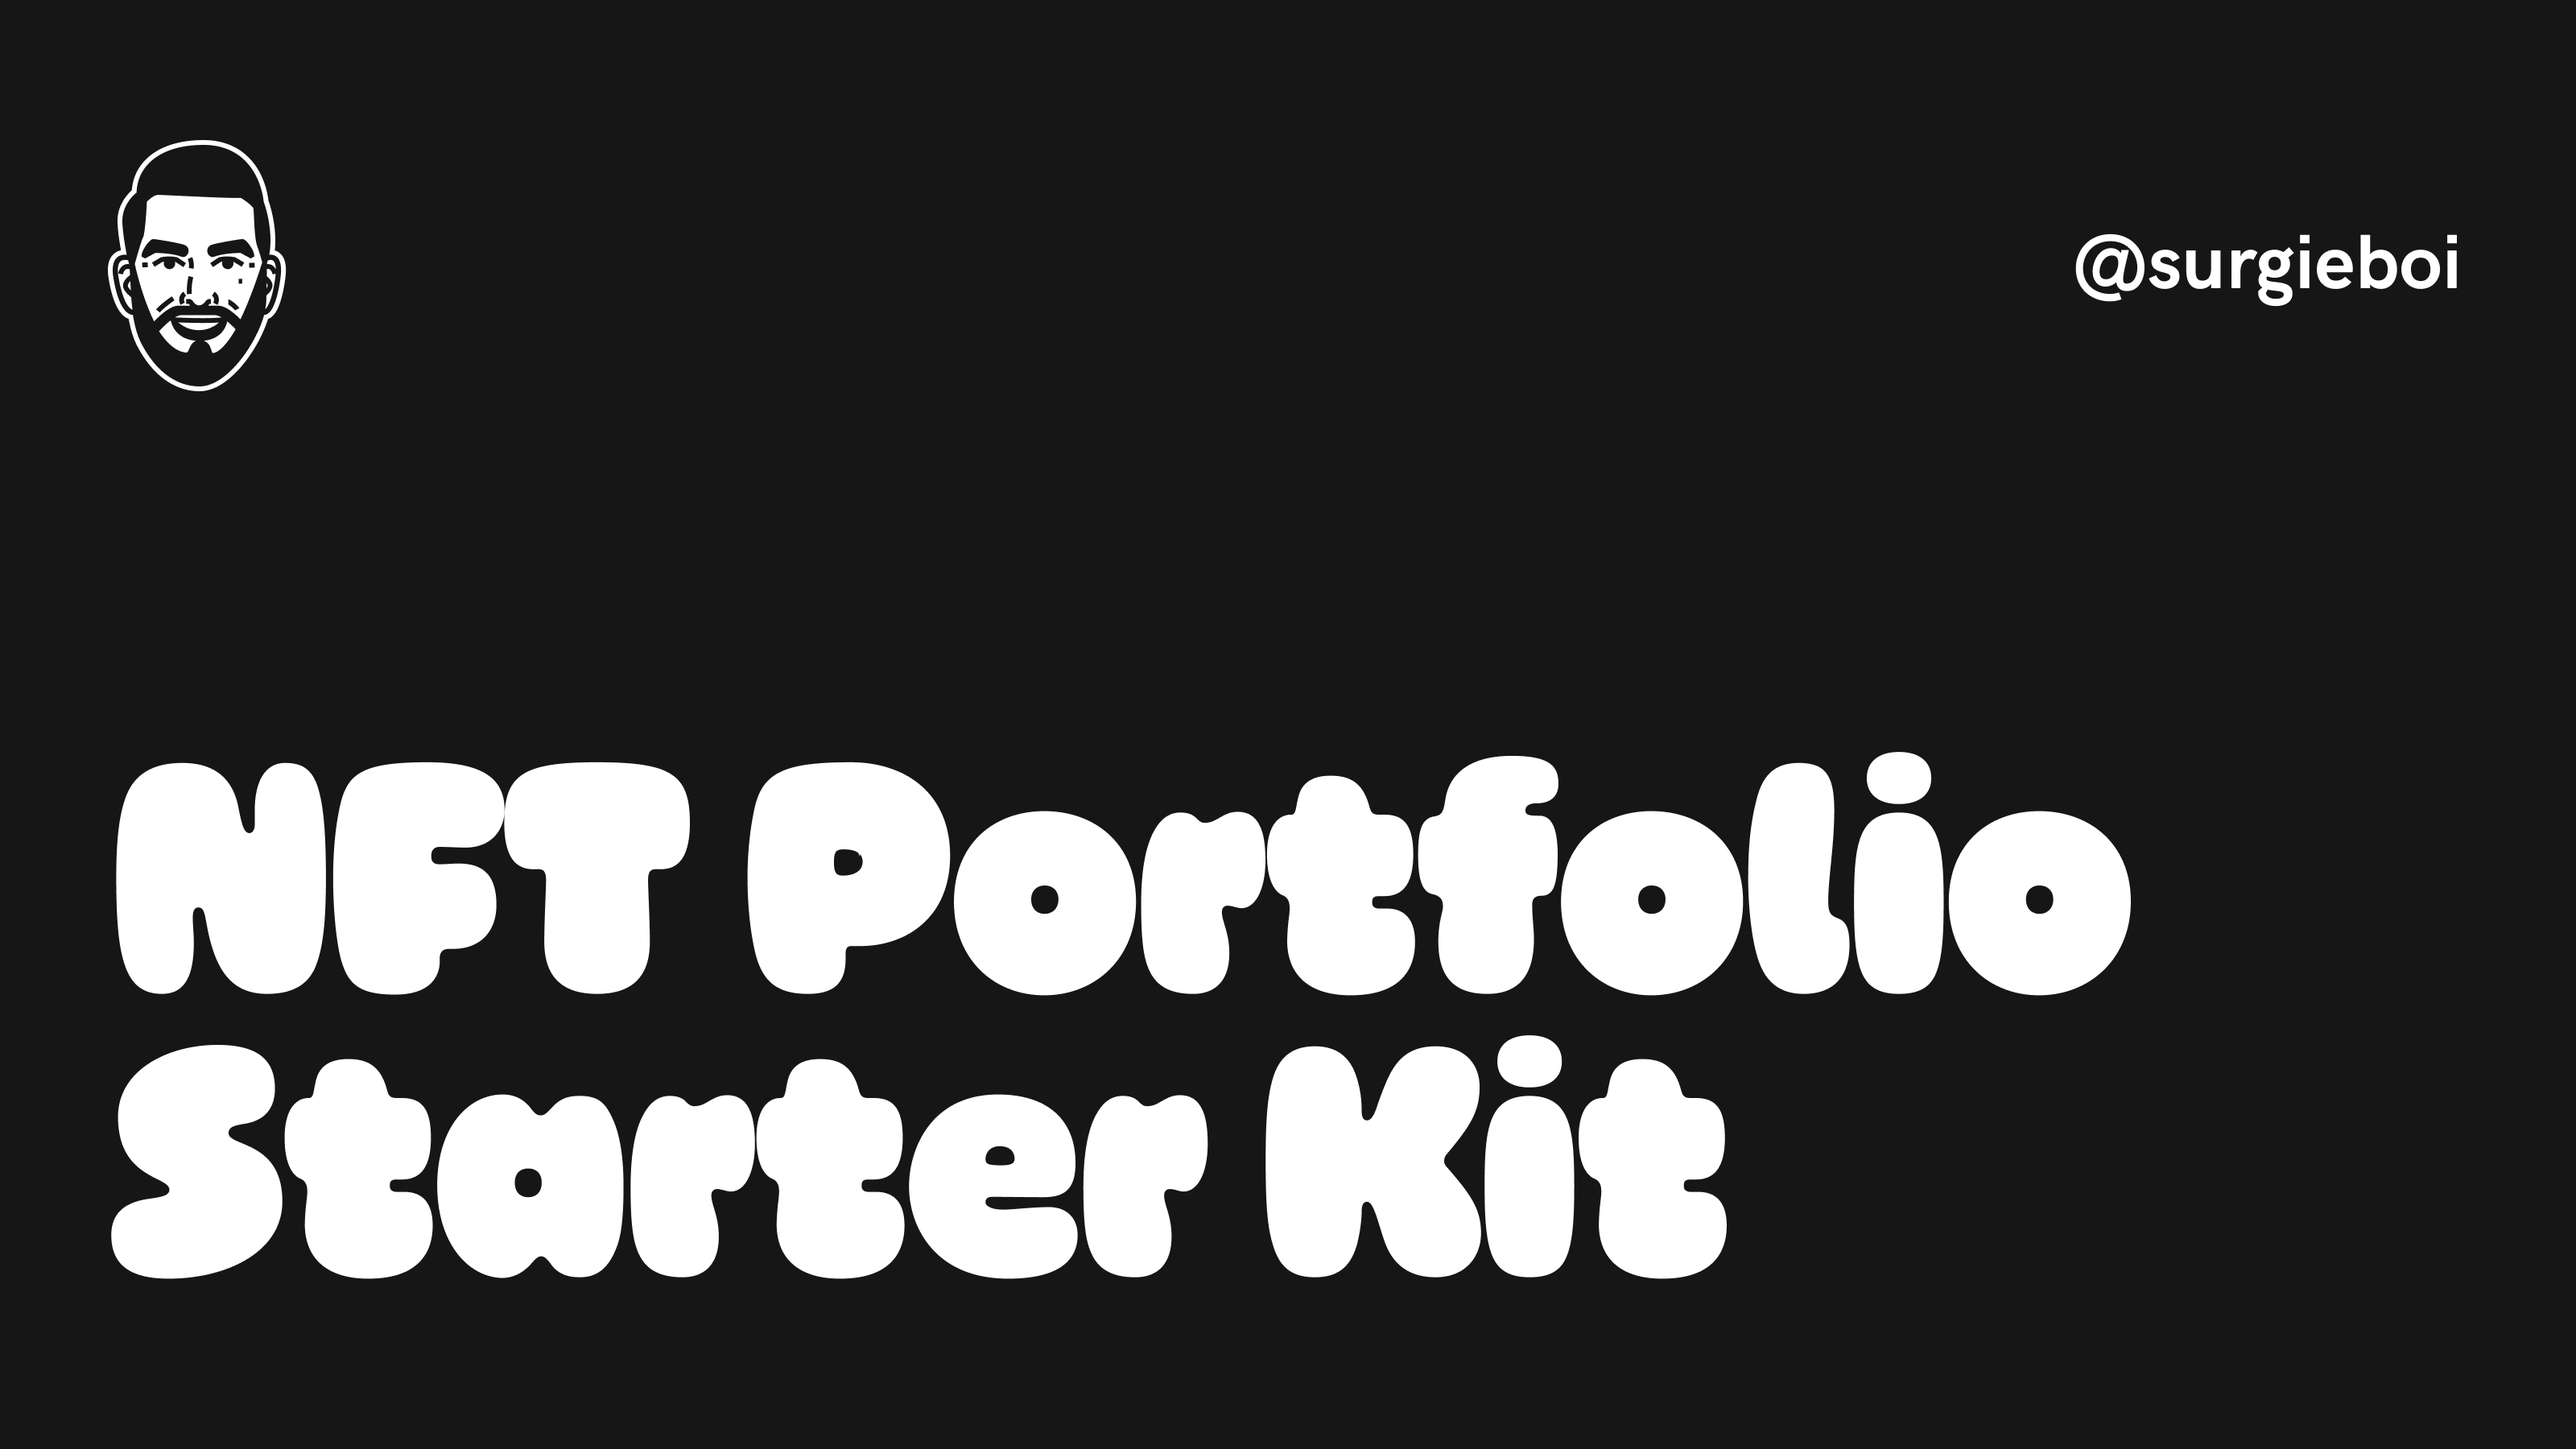
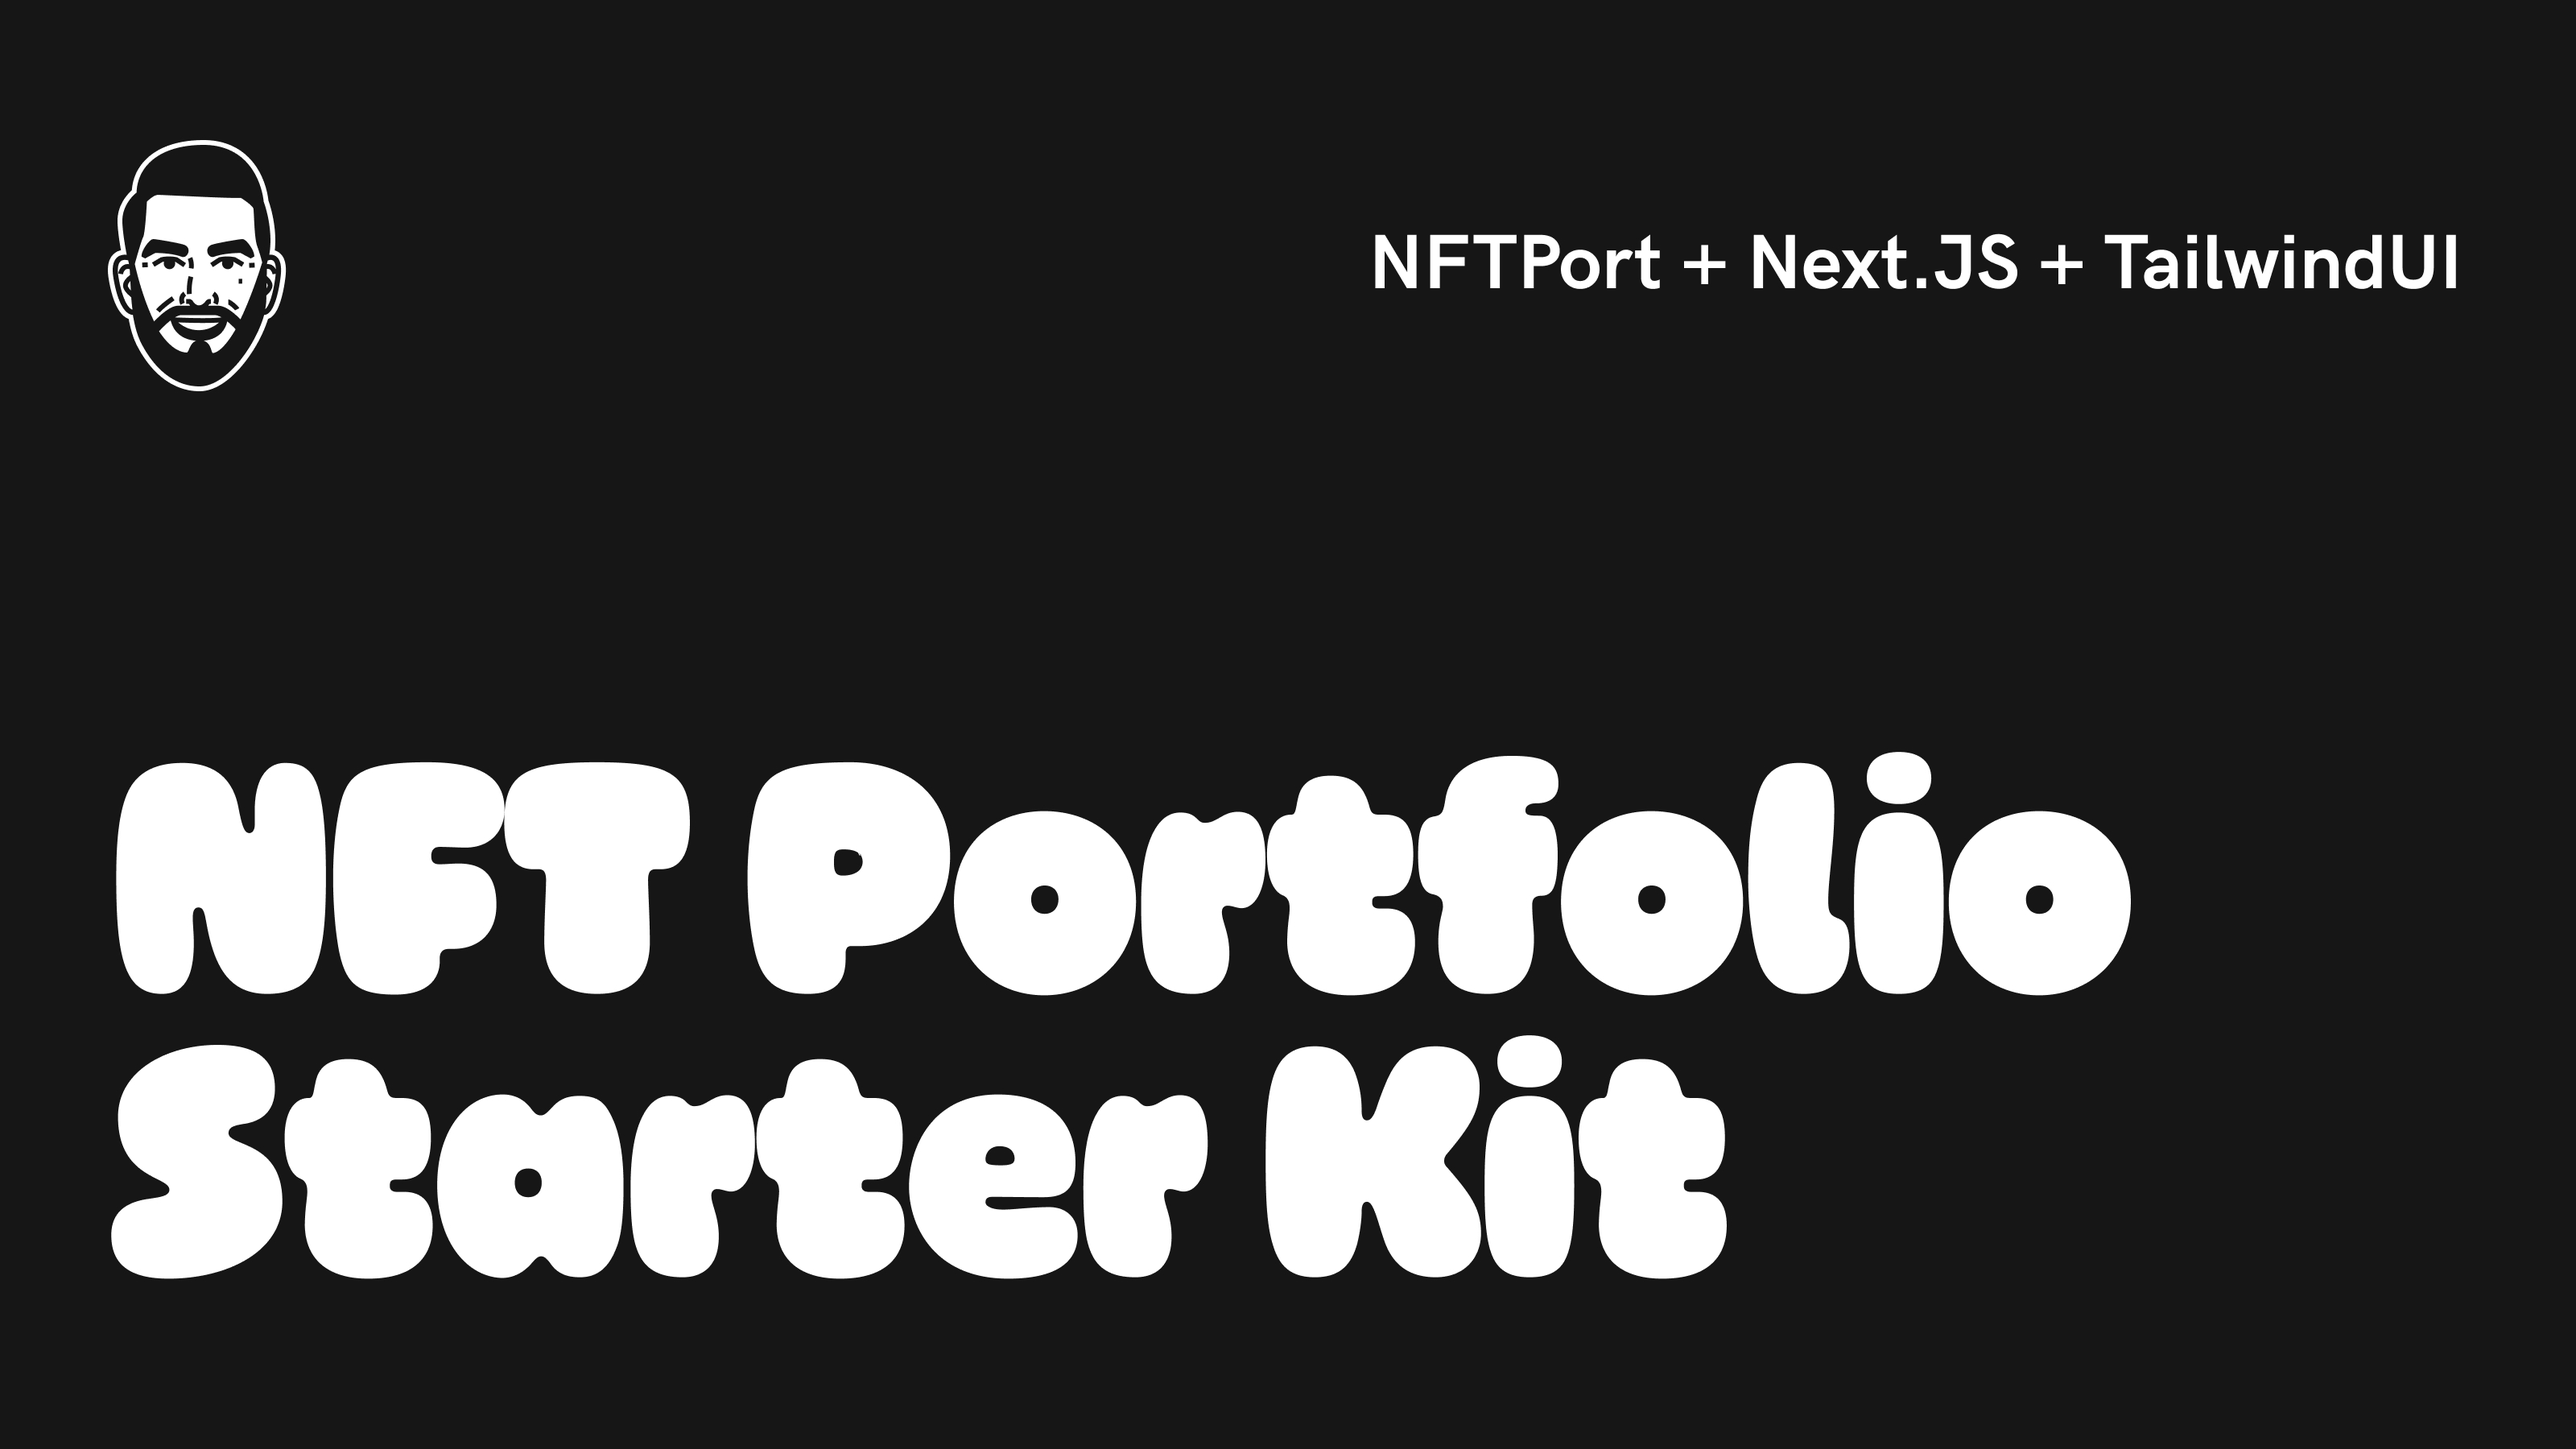
added vercel deploy now

Changed region(s): [[0.5312, 0.1556, 0.9688, 0.2178]]

diff --git a/README.md b/README.md
@@ -1,5 +1,7 @@
 # NFTPort NFT Portfolio Starter Kit
 
+<img src="public/og.jpg">
+
 This is a starter kit project for creating an NFT portfolio using [NFTPort](https://www.nftport.xyz/), Next.js's [`create-next-app`](https://github.com/vercel/next.js/tree/canary/packages/create-next-app), and [Tailwind](https://tailwindui.com/); additionally, it is deployable on [Vercel](https://vercel.com/).
 
 ## Getting Started
@@ -13,6 +15,8 @@ This is a starter kit project for creating an NFT portfolio using [NFTPort](http
 7. View your landing page on `localhost:3000`
 
 Alternatively, you can deploy this starter kit using Vercel's [Deploy Now](https://vercel.com/docs/deploy-button) button:
+
+<a href="https://vercel.com/new/clone?repository-url=https%3A%2F%2Fgithub.com%2Fsurgieboi%2Fnftport-nft-portfolio-starter-kit&env=NEXT_PUBLIC_NFTPORT_API_KEY,NEXT_PUBLIC_NFTPORT_CONTRACT_ADDRESS,NEXT_PUBLIC_NFTPORT_CHAIN,NEXT_PUBLIC_NFTPORT_DISPLAY_QUANTITY"><img src="https://vercel.com/button" alt="Deploy with Vercel"/></a>
 
 Note, deploying to Vercel does not require any knowledge of Javascript, Next.js or software development.
 
